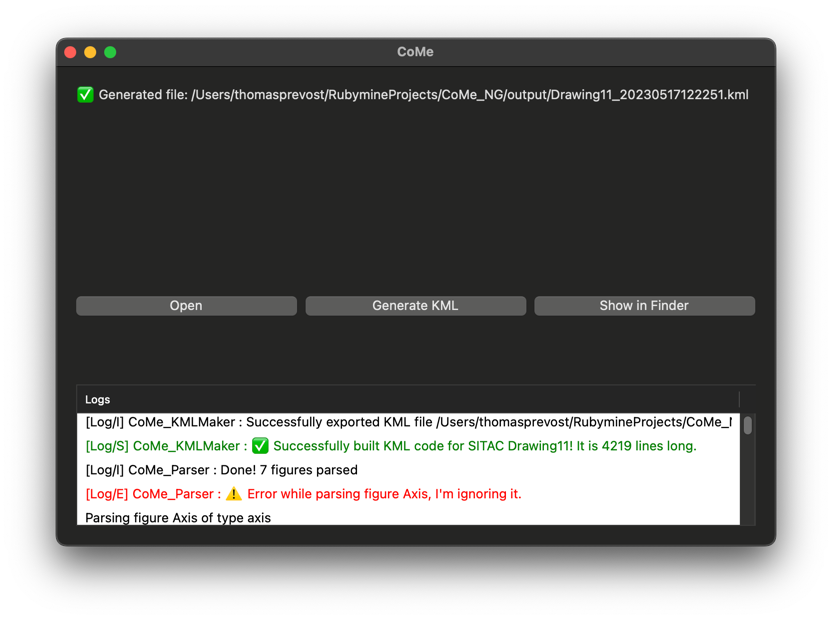
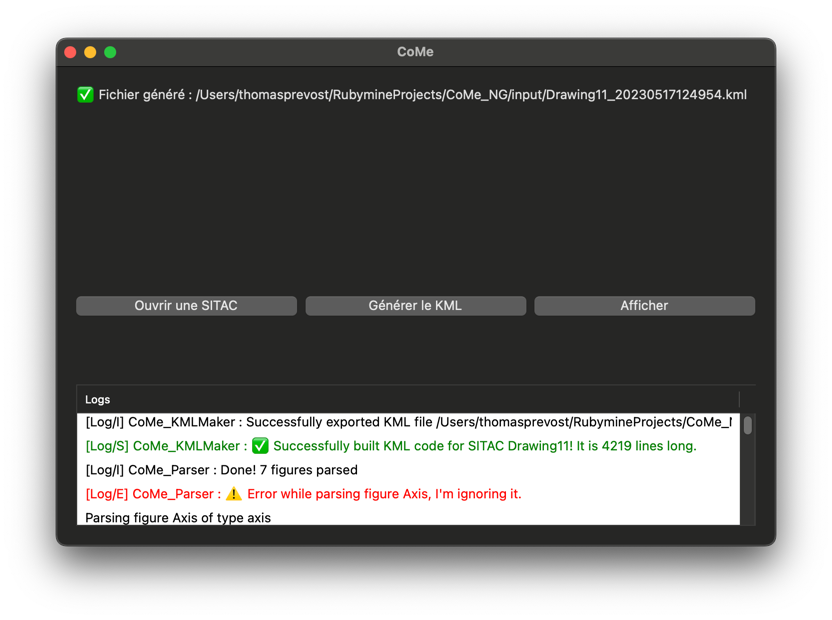
🇫🇷 interface en français

diff --git a/lib/come_ui.rb b/lib/come_ui.rb
@@ -65,18 +65,18 @@ class CoMe_UI
       margined true
 
       vertical_box do
-        @label = label('No file opened yet')
+        @label = label('Aucun fichier ouvert...')
         horizontal_box do
-          button('Open') do
+          button('Ouvrir une SITAC') do
             on_clicked do
               @filename = open_file
               next unless @filename
 
               # update label
-              @label.text = "📖 Opened file: #{@filename}"
+              @label.text = "📖 Fichier ouvert : #{@filename}"
             end
           end
-          button('Generate KML') do
+          button('Générer le KML') do
             on_clicked do
               next unless @filename
 
@@ -101,11 +101,11 @@ class CoMe_UI
               @outfile = output
 
               # update label
-              @label.text = "✅ Generated file: #{output}"
+              @label.text = "✅ Fichier généré : #{output}"
               @openbtn.enabled = true
             end
           end
-          @openbtn = button('Show in Finder') do
+          @openbtn = button('Afficher') do
             next unless @outfile
 
             # get system type (Darwin, Linux, Windows)
